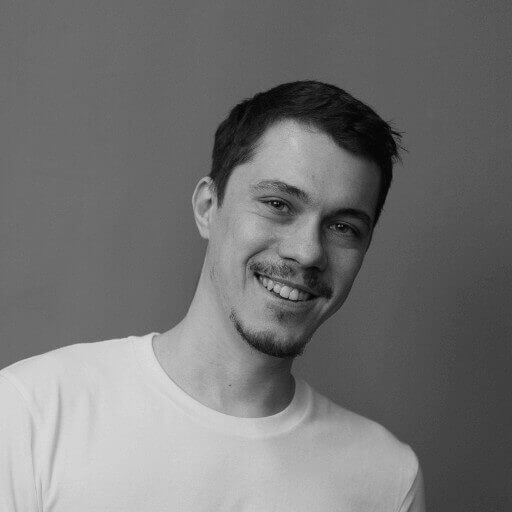
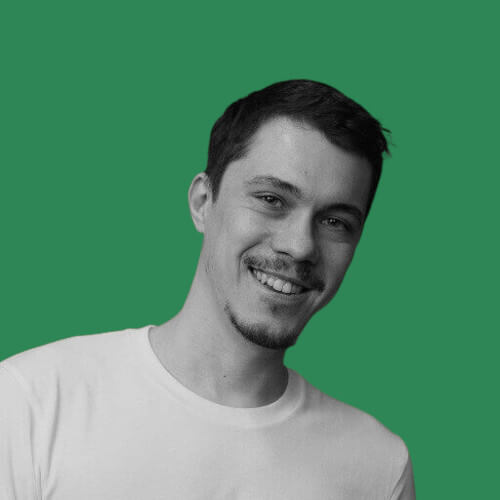
fix: pic

diff --git a/src/components/Resume/styles.module.css b/src/components/Resume/styles.module.css
@@ -7,9 +7,9 @@
 
 .resumeHeader {
 	display: flex;
-	align-items: start;
+	align-items: flex-end;
 	flex-wrap: wrap;
-	gap: 20px;
+	gap: 10px 20px;
 }
 
 .resumeMeta {
@@ -25,7 +25,9 @@
 }
 
 .resumeImg {
-	max-width: 220px;
+	border-radius: var(--ifm-button-border-radius);
+	background: var(--ifm-color-primary);
+	max-width: 256px;
 	height: auto;
 }
 

diff --git a/src/components/Resume/index.tsx b/src/components/Resume/index.tsx
@@ -38,7 +38,7 @@ export function Resume() {
 			</button>
 
 			<div className={clsx([styles.resumeHeader, styles.section])}>
-				<img src="/img/emil.jpg" alt="Emil" className={styles.resumeImg} />
+				<img src="/img/emil.png" alt="Emil" className={styles.resumeImg} />
 
 				<div className={styles.resumeMeta}>
 					<h1
